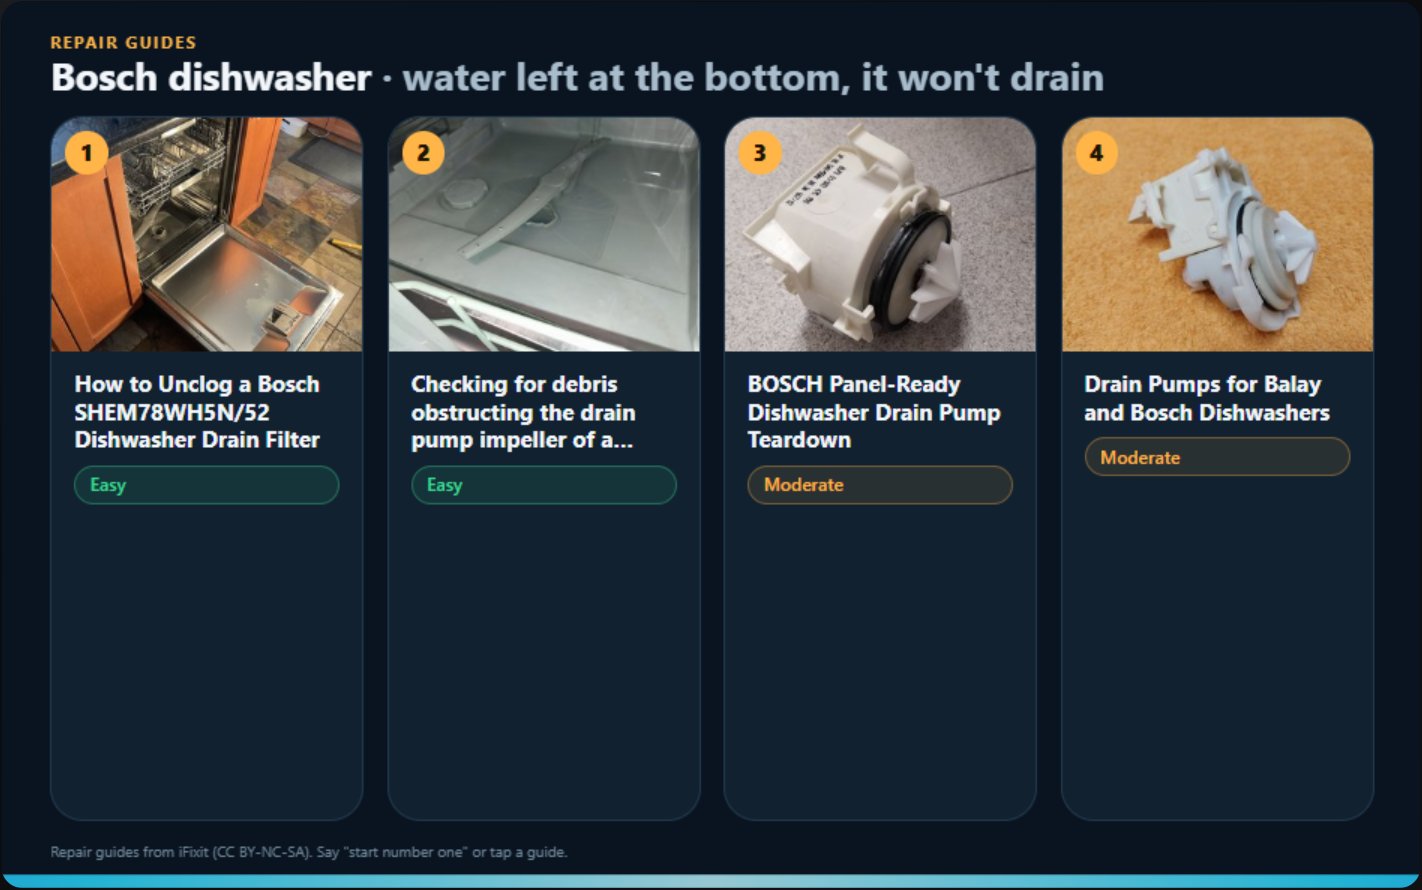
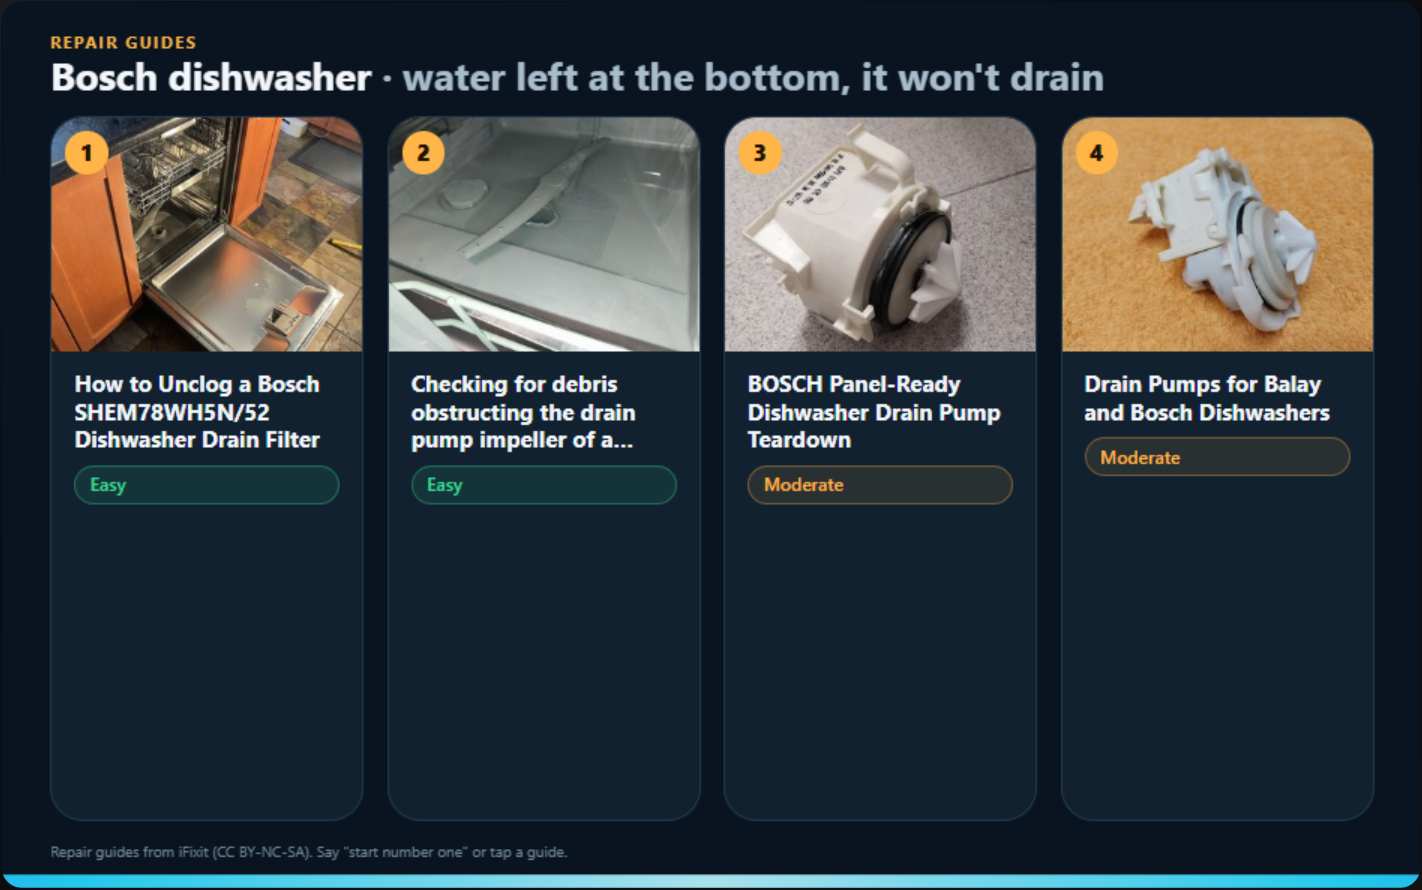
Docs: demo voice-over script, model-routing notes, refreshed screenshots

Changed region(s): [[0.0, 0.9708, 1.0, 1.0]]

diff --git a/docs/DEVPOST.md b/docs/DEVPOST.md
@@ -49,17 +49,18 @@ We also built **Hearth**, an open-source, voice-first MCP host that simulates Al
 - **iFixit integration:** a symptom-to-repair-term mapper, multi-query search, ranking by exact model, difficulty and photos, caching, and bundled offline guides.
 - **Hearth (simulated Alexa+):**
   - A Node backend running one **Strands Agents** agent per device session, connected to Mend with Strands' `McpClient`. Elicitation requests are bridged to the device.
-  - The agent uses Google Gemini's free tier. OpenAI-compatible and Amazon Bedrock providers are also supported.
+  - The agent uses Google Gemini's free tier through Strands' **`ModelRouter` with `FallbackStrategy`**. At startup Hearth probes the newest Flash models and puts the healthy ones first, so overloaded free-tier models fail over automatically. OpenAI-compatible and Amazon Bedrock providers are also supported.
   - A browser front end with the Web Speech API for listening and speaking, the official MCP Apps **AppBridge** in a sandboxed iframe, an elicitation sheet you answer by voice or touch, an Alexa-style light bar and an inspector.
 - **Quality:**
   - Mend: 18 tests, including a full MCP session over HTTP that runs a repair, declines and then accepts a safety check, and approves a purchase.
-  - Hearth: 6 tests.
+  - Hearth: 7 tests.
   - Browser end-to-end checks of the device flow.
 
 ## Challenges we ran into
 
 - **Safety the model can't bypass.** A tool parameter like `powerIsOff: true` would let the model "confirm" for the person. Elicitation sends the question to the human instead, which needs stateful sessions and a host that can ask by voice.
 - **Natural language vs repair search.** iFixit search returns nothing for "water at the bottom", so we mapped symptoms to repair vocabulary and ranked candidates by the appliance's exact model.
+- **The AI improvised repair steps.** In early live tests the model "read" steps that weren't in the guide. It also guessed guide IDs, because Strands only passes a tool's text to the model. We now return every result as a spoken summary plus the structured data serialized as JSON text, as the MCP spec recommends for structured results. Step text is marked "read this exactly as written", and Mend's server instructions forbid inventing steps. In the final tests it reads the guide's own words, step by step.
 - **MCP Apps on a voice device.** The screen and the conversation must stay in sync. Touching "Next" on the screen calls the tool through the host and also tells the voice agent what happened (`updateModelContext`).
 - **Tooling gaps** (detailed in the friction log): Strands drops `structuredContent`, an AppBridge init-order pitfall, inlining the MCP Apps SDK into a single-file `ui://` resource, and the lack of a way to test an MCP server on a real Alexa+ device.
 
@@ -102,9 +103,11 @@ We also built **Hearth**, an open-source, voice-first MCP host that simulates Al
 - **Would build again:** **Yes.** It's the missing piece for smart displays.
 
 ### Strands Agents SDK (TypeScript)
-- **Used for:** Hearth's agent loop: `Agent`, `McpClient` with `elicitationCallback`, streaming events (`modelStreamUpdateEvent`, `before/afterToolCallEvent`, `modelMessageEvent`) and the Google Gemini model provider. A Bedrock provider is also wired in.
-- **Worked well:** Passing an `McpClient` directly as a tool source; elicitation support (form and URL); typed stream events that map neatly to a device UI; swapping model providers in one line.
-- **Needs work:** `McpTool` maps only `content` into `ToolResultBlock` and drops `structuredContent` and `_meta`, so an MCP Apps host built on Strands can't get the screen data from agent events. We wrapped `McpClient.callTool` as a workaround.
+- **Used for:** Hearth's agent loop: `Agent`, `McpClient` with `elicitationCallback`, streaming events (`modelStreamUpdateEvent`, `before/afterToolCallEvent`, `modelMessageEvent`), the Google Gemini model provider, and `ModelRouter` + `RoutingCandidate` + `FallbackStrategy` for automatic failover between models. A Bedrock provider is also wired in.
+- **Worked well:** Passing an `McpClient` directly as a tool source; elicitation support (form and URL); typed stream events that map neatly to a device UI; swapping model providers in one line; `ModelRouter` turning flaky free-tier models into a reliable agent.
+- **Needs work:**
+  - `McpTool` maps only `content` into `ToolResultBlock` and drops `structuredContent` and `_meta`, so an MCP Apps host built on Strands can't get the screen data from agent events. We wrapped `McpClient.callTool` as a workaround.
+  - `ModelRouter` failover waits for the provider client's own retries first. The Google client defaults to 5 attempts with exponential backoff, so each overloaded model cost about 15 s before the router switched.
 - **Onboarding:** under an hour from install to an agent calling Mend's tools.
 - **Would build again:** **Yes.** It was the fastest way to put a real agent behind a simulated device, and it's provider-agnostic.
 
@@ -123,7 +126,8 @@ We also built **Hearth**, an open-source, voice-first MCP host that simulates Al
 | 2 | Initialize an MCP Apps View with host context | `new AppBridge(…)`, then `setHostContext({...})`, then `connect()` | Context stored for `ui/initialize` | Unhandled rejection: "Not connected" | Medium | Pass `{ hostContext }` in the constructor options | Make `setHostContext` a no-op notify before connect, or document the ordering |
 | 3 | Ship a self-contained `ui://` HTML resource | Inlined `app-with-deps.js` into a `<script type="module">` | A bundle usable inline (IIFE/global) | ESM bundle ends with `export{…}`, unusable inline as-is | Medium | Rewrote the export clause into a local object at build time | Publish an IIFE build (`window.McpApps`) and a smaller View-only bundle |
 | 4 | Build an MCP Apps server with the familiar SDK | Started with `@modelcontextprotocol/sdk` 1.x | ext-apps server helpers work with it | ext-apps 2.x peers on the v2 split packages | Low | Migrated to `@modelcontextprotocol/server`, `node`, `client` v2 | Call out the v1→v2 requirement in the ext-apps quickstart |
-| 5 | Test the MCP server on Alexa+ | Looked for a way to add a self-hosted MCP URL to a device or test console | Voice and screen testing of tools, elicitation and MCP Apps | No path found | High (for this track) | Built Hearth, an open-source simulator | An Alexa+ developer console that accepts an MCP URL, with Echo Show screen and elicitation support |
+| 5 | Survive overloaded free-tier models with `ModelRouter` | Wrapped four `GoogleModel`s in `ModelRouter` (default `FallbackStrategy`) | A 503 from one model switches to the next within a second or two | Each failing model first went through the Google client's default retries (5 attempts, exponential backoff), so a turn took about 60 s | Medium | Set `clientConfig.httpOptions.retryOptions.attempts = 2`, and probe models at startup to order the healthy ones first | Have `ModelRouter` cap or disable provider-level retries for routed candidates, or document the interaction |
+| 6 | Test the MCP server on Alexa+ | Looked for a way to add a self-hosted MCP URL to a device or test console | Voice and screen testing of tools, elicitation and MCP Apps | No path found | High (for this track) | Built Hearth, an open-source simulator | An Alexa+ developer console that accepts an MCP URL, with Echo Show screen and elicitation support |
 
 ## Feature requests
 

diff --git a/docs/DEMO_SCRIPT.md b/docs/DEMO_SCRIPT.md
@@ -1,0 +1,29 @@
+# Mend demo video: voice-over script
+
+The recorded walkthrough (`hearth/demo/mend-demo.mp4`, 1:38, 1080p) is silent, with captions. The AI responses are live and unscripted (Gemini through Strands Agents), and AI waiting time is shortened in the video, as its title card says. Re-record it with `npm run record` in `hearth/` while Mend and Hearth are running.
+
+A human voice-over makes it much stronger. Read each line when its moment arrives.
+
+| Time | On screen | Say |
+|---|---|---|
+| 0:00 | Card: "You can't scroll a phone with wet hands…" | "Most broken appliances need a twenty-minute fix, not a new machine. But you can't scroll a phone with wet hands inside a dishwasher." |
+| 0:06 | Card: Mend | "Mend is hands-free repair for Alexa+. It's an MCP server on the 2025-11-25 spec, and it's running here in Hearth, our open-source Alexa+ simulator." |
+| 0:14 | Hearth home screen | "On the left is a simulated Echo Show. On the right, every MCP message as it happens." |
+| 0:17 | "Alexa, my dishwasher won't drain…" | "I just describe the problem in my own words." |
+| 0:22 | Guides screen | "Mend checks my appliance passport, so it knows this is a Bosch, and finds the iFixit guide for my exact model." |
+| 0:27 | "Yes, let's do the easy one." → overview | "It tells me how long it takes, the tools I need, and the risks it will check." |
+| 0:35 | "Okay, next." → safety check | "Before the first step, Mend asks *me* whether the power is off. This is MCP elicitation: the question goes to the person, so the AI can't answer it for me." |
+| 0:43 | "Yes, it's unplugged." → step 1 | "Each step is read aloud with the real photo from the guide." |
+| 0:51 | Tap on Next | "I can also just tap, and the voice assistant stays in sync." |
+| 0:57 | "Next." | "One step at a time, read exactly as the guide says. No improvising." |
+| 1:02 | "It's draining now. It's fixed!" | "When it works, Mend logs the repair and resets the maintenance clock." |
+| 1:10 | "What maintenance is due?" | "It remembers my home: the fridge coils are overdue." |
+| 1:18 | "Add a new drain pump…" → approval | "If I need a part, it goes in my cart only after I approve it. Every purchase, every time." |
+| 1:25 | "Yes, add it." → cart | "That's Mend: MCP 2025-11-25, MCP Apps screens, elicitation and an Agent Skill." |
+| 1:36 | Outro card | "Mend and Hearth are open source. Thanks for watching." |
+
+## Adding your voice and publishing
+
+1. Open **Clipchamp** (built into Windows 11; free in the Microsoft Store on Windows 10) and import `hearth/demo/mend-demo.mp4`.
+2. **Record & create → Audio**: record the lines above while the video plays.
+3. Export at 1080p and upload to **YouTube** as *Public* or *Unlisted*. The rules require a public YouTube or Vimeo link, under 3 minutes.

diff --git a/README.md b/README.md
@@ -37,7 +37,7 @@ Mend uses the parts of the spec that a home voice assistant needs. The official 
 | **Elicitation (form mode)** | Safety confirmations and purchase approvals go straight to the person. The model can't approve on their behalf. |
 | **Graceful degradation** | Clients without elicitation get a spoken "say yes when it's done" check instead of a silent skip (`confirmation_required`). |
 | **MCP Apps** (`ui://mend/screen.html`) | One Echo Show screen for guides, step photos, safety, passport, cart and maintenance. It uses the official `@modelcontextprotocol/ext-apps` SDK, declares its CSP (iFixit image CDN only), calls tools on touch, and keeps the voice assistant in sync with `updateModelContext`. |
-| **Structured content + speech-first text** | Every tool returns a 1–3 sentence spoken reply (`content`) plus typed data for the screen (`structuredContent`). |
+| **Structured content + speech-first text** | Every tool returns a 1–3 sentence spoken reply, then the same data serialized as JSON text (as the spec recommends, so any model sees ids like `guideId`), plus typed `structuredContent` for the screen. Step text is marked "read this exactly as written", so the assistant never improvises instructions. |
 | **Server instructions** | They tell the assistant the workflow and voice style (one step at a time, never answer safety checks). |
 | **Tool annotations** | `readOnlyHint` and `openWorldHint` mark safe lookups. |
 | **Resources** | `mend://household/passport` (JSON) and the `ui://` screen. |
